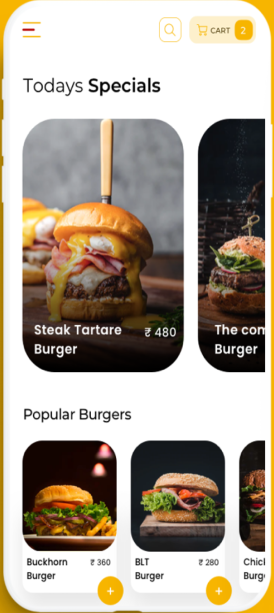
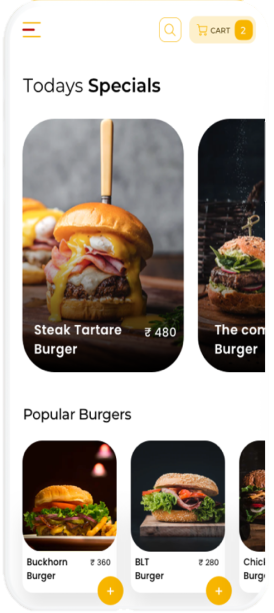
This commit changes two pictures in the pics reposiory and updates images layout underthe discover more section

Changed region(s): [[0.0, 0.0, 1.0, 1.0]]

diff --git a/index.html b/index.html
@@ -134,8 +134,8 @@
             <img class="store" src="/pics/Googleplay.png" alt="">
             <img class="store" src="/pics/Applestore.png" alt="">
             <div >
-                <img class="phone1" src="/pics/phone1.png" alt="">
-                <img class="phone2" src="/pics/phone2.png" alt="">
+                <img class= "phone1" src="/pics/phone1.png" alt="">
+                <img class= "phone2" src="/pics/phone2.png" alt="">
             </div>
         </div>
 </body>

diff --git a/styles.css b/styles.css
@@ -227,6 +227,8 @@ body{
     float: right;
     margin-top: -420px;
     margin-right: 100px;
+    background-color: white;
+    border-radius: 30px;
     box-shadow: 3px 3px 6px 3px;
     
 }
@@ -236,5 +238,7 @@ body{
     float: right;
     margin-top: -420px;
     margin-right: 100px;
+    background-color: white;
+    border-radius: 30px;
     box-shadow: 3px 3px 6px 3px;
 }
